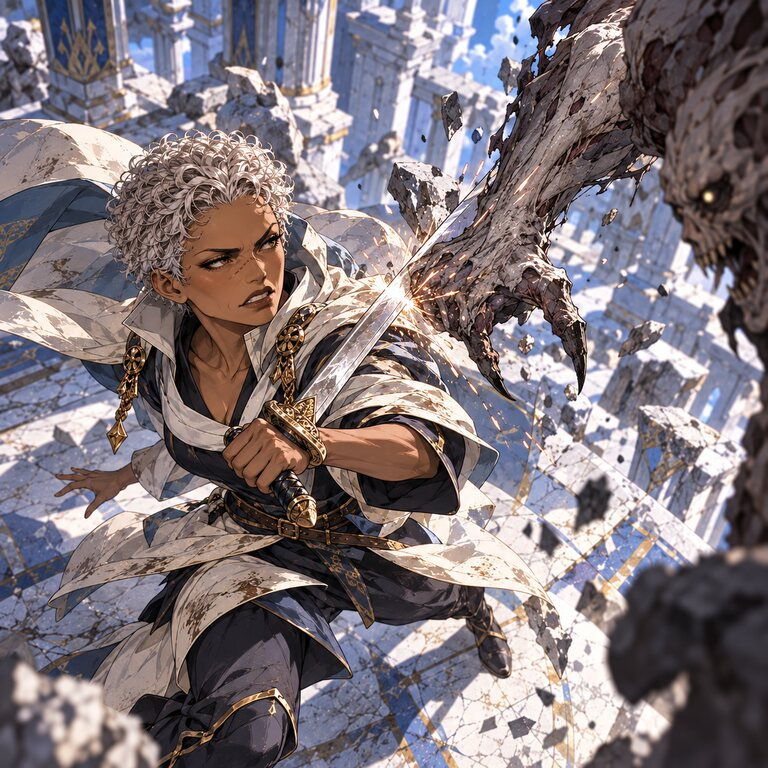
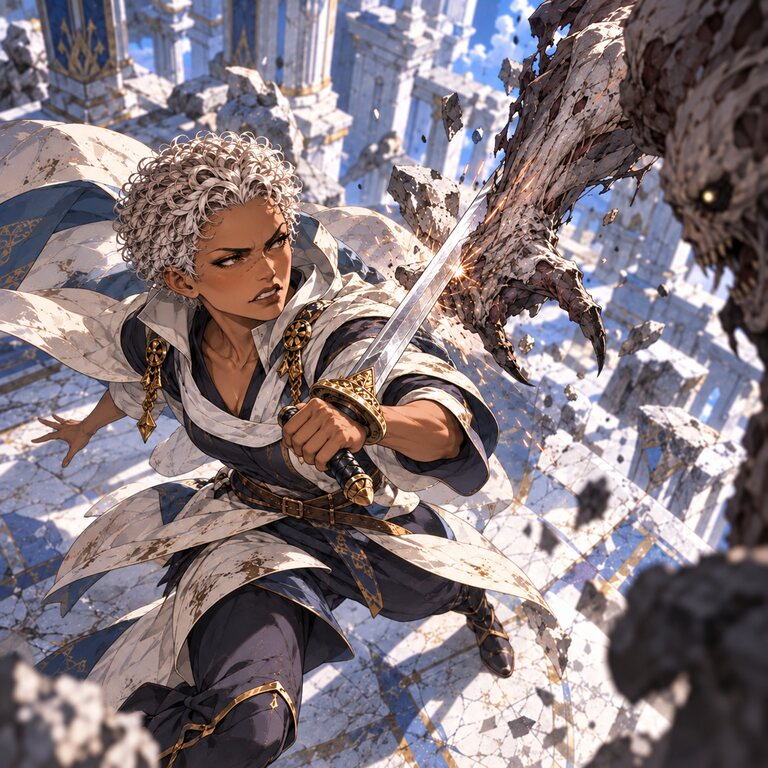
art: correct Justus technique anatomy

diff --git a/docs/ART_JUSTUS_DARK_PICTORIAL_REWORK_20261031.md b/docs/ART_JUSTUS_DARK_PICTORIAL_REWORK_20261031.md
@@ -6,14 +6,14 @@ Revisão dark fantasy pictórica em 31 de outubro de 2026.
 - Seis candidatas WebP ativas em 512 × 512; seis matrizes JPEG retidas em 768 × 768.
 - Todas aguardam aprovação visual final.
 - A personagem preserva pele castanha quente, cachos prateados curtos, vestes marfim e azul-marinho e espada prateada.
-- Rotas de arte atualizadas; nenhuma mecânica de combate alterada.
+- A Técnica foi refeita para corrigir a continuidade dos braços, da pegada e do golpe. Rotas de arte atualizadas; nenhuma mecânica de combate alterada.
 
 | Espaço | Cena | Alvo |
 |---|---|---|
 | Retrato | Justus reage à ameaça fora de quadro; cachos prateados curtos, pele castanha quente e vestes marfim e azul-marinho, espada visível. | Self |
 | Fio do Princípio | A lâmina de Justus estabelece uma linha de guarda enquanto um ghoul recua sob a pressão do princípio reafirmado. | 1 inimigo |
 | Corte de Princípio | Justus avança e corta a guarda de um ghoul com um golpe rápido de espada. | 1 inimigo |
-| Parada Equânime | Justus recebe a investida de um único ghoul com uma parada física de espada e corpo alinhado ao impacto. | 1 agressor |
+| Parada Equânime | Parada física contra um único agressor, com os dois braços, a mão no punho e o ponto de contato revisados anatomicamente. | 1 agressor |
 | Sentença da Lâmina | De uma aproximação frontal, Justus desfere um golpe preciso contra um único ghoul. | 1 inimigo |
 | Passo Equânime | Justus desloca o corpo lateralmente para esquivar de um único agressor, preservando o equilíbrio da espada. | Self |
 
